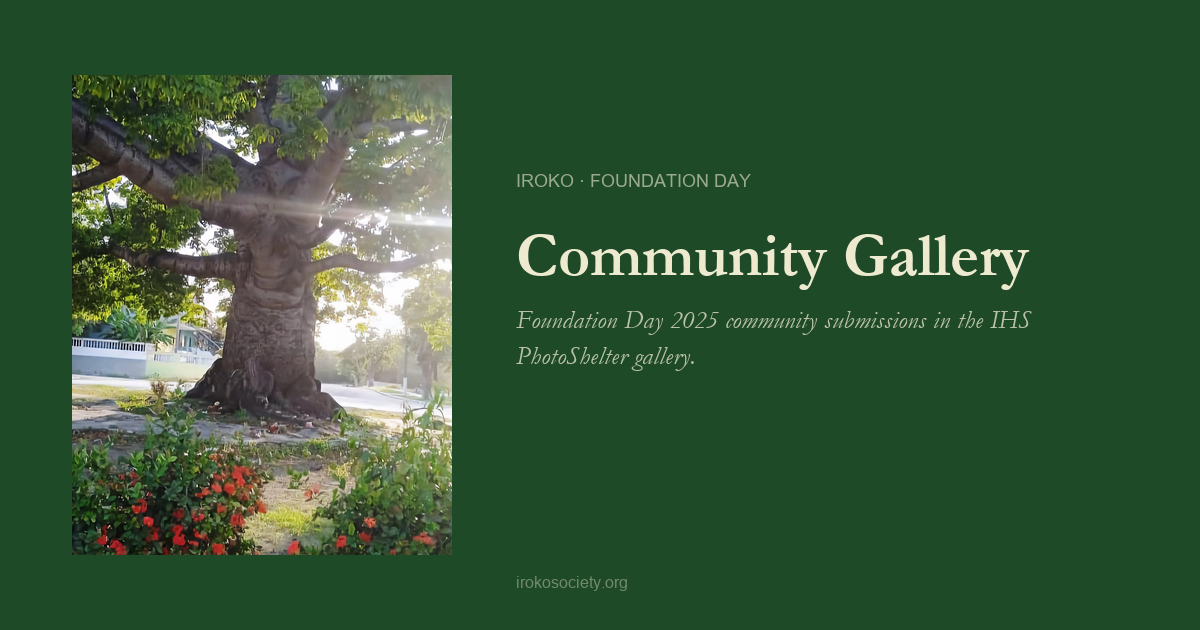
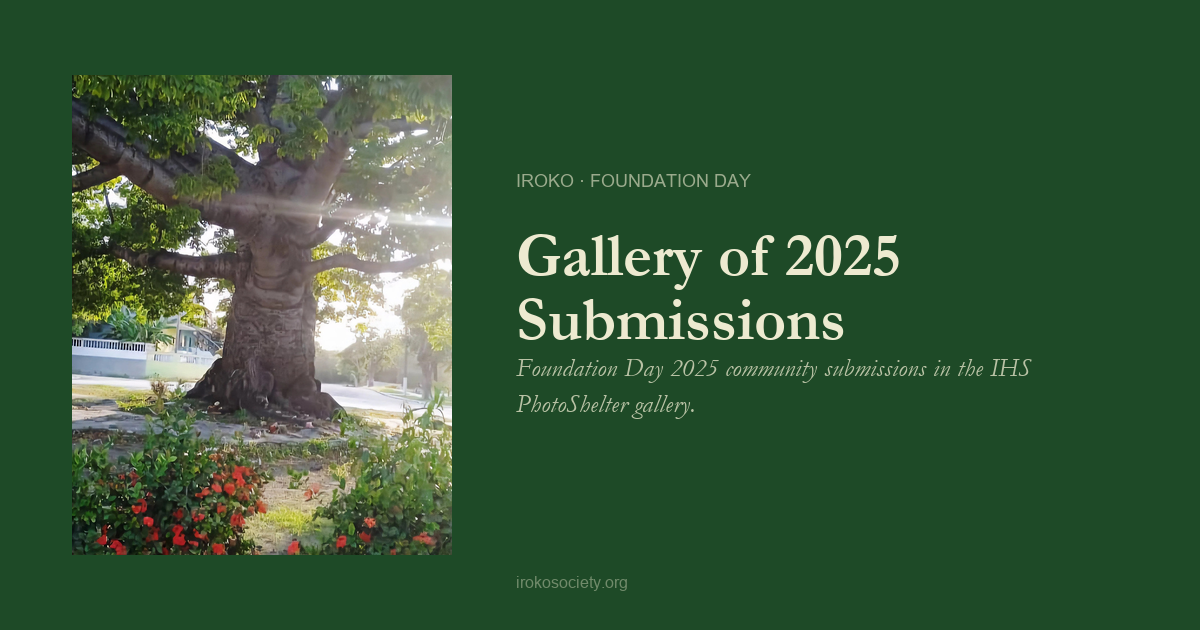
Gallery Updates

Changed region(s): [[0.4317, 0.3619, 0.8633, 0.6032], [0.4317, 0.6333, 0.5858, 0.6635], [0.8017, 0.4825, 0.8633, 0.5127]]

diff --git a/foundation-day/community-gallery-2025.html b/foundation-day/community-gallery-2025.html
@@ -21,26 +21,110 @@
   <link rel="stylesheet" href="../style.css">
   <link rel="icon" type="image/svg+xml" href="../assets/IHS-Logo.svg">
   <style>
-    body{min-height:100vh;margin:0;background:var(--cream);color:var(--text-main)}
-    .redirect-page{min-height:100vh;display:grid;place-items:center;padding:2rem;background:linear-gradient(180deg,var(--cream) 0%,var(--cream-light) 100%)}
-    .redirect-message{max-width:560px;text-align:center}
+    .top-bar{background:var(--green-deep);border-bottom:1px solid var(--green-border);color:rgba(237,234,208,.6);font-family:var(--font-sans);font-size:.7rem;letter-spacing:.1em;text-align:center;padding:.35rem 1rem}
+    nav ul{position:relative}
+    .nav-dropdown{position:relative}
+    .nav-dropdown>a::after{content:' \25BE';font-size:.6rem;opacity:.7}
+    .dropdown-menu{display:none;position:absolute;top:100%;left:0;background:var(--green-deep);border:1px solid var(--green-border);border-top:2px solid var(--green-light);min-width:200px;list-style:none;margin:0;padding:.4rem 0;z-index:200;box-shadow:0 6px 18px rgba(0,0,0,.35)}
+    .nav-dropdown:hover .dropdown-menu{display:block}
+    .dropdown-menu li a{display:block;padding:.5rem 1.1rem;font-family:var(--font-sans);font-size:.75rem;letter-spacing:.05em;text-transform:uppercase;color:rgba(237,234,208,.7);text-decoration:none;white-space:nowrap;transition:background .15s,color .15s;height:auto;line-height:1.4}
+    .dropdown-menu li a:hover,.dropdown-menu li a.active{background:rgba(255,255,255,.1);color:var(--cream)}
+    .nav-toggle{display:none;background:none;border:none;color:var(--cream);font-size:1.5rem;cursor:pointer;padding:.25rem .5rem;margin-left:auto}
+    a.ext::after{content:' \2197';font-size:.75em;opacity:.6}
+
+    .redirect-page{min-height:calc(100vh - 64px);display:grid;place-items:center;padding:4rem 2rem;background:linear-gradient(180deg,var(--cream) 0%,var(--cream-light) 100%)}
+    .redirect-message{max-width:620px;text-align:center}
     .redirect-eyebrow{font-family:var(--font-sans);font-size:.72rem;letter-spacing:.18em;text-transform:uppercase;color:var(--green-mid);margin-bottom:1rem}
-    .redirect-message h1{font-family:var(--font-display);font-size:clamp(1.8rem,5vw,2.8rem);font-weight:700;color:var(--green-deep);line-height:1.15;margin:0 0 1rem}
+    .redirect-message h1{font-family:var(--font-display);font-size:clamp(1.85rem,5vw,2.9rem);font-weight:700;color:var(--green-deep);line-height:1.15;margin:0 0 1rem}
     .redirect-message p{font-family:var(--font-sans);font-size:.95rem;line-height:1.8;color:var(--text-muted);margin:0 auto 1rem}
     .countdown{font-family:var(--font-display);font-size:clamp(2.2rem,10vw,4rem);font-weight:700;color:var(--green-deep);line-height:1;margin:1.4rem 0 .45rem}
     .countdown-label{font-family:var(--font-sans);font-size:.72rem;letter-spacing:.14em;text-transform:uppercase;color:var(--text-muted)}
     .noscript-note{max-width:560px;margin:1.5rem auto 0;font-family:var(--font-sans);font-size:.86rem;line-height:1.7;color:var(--text-muted)}
     .noscript-note a{color:var(--green-deep)}
+
+    .site-footer{background:var(--green-deep);color:rgba(237,234,208,.7);padding:2rem 1.5rem;border-top:3px solid var(--green-border)}
+    .footer-links{display:flex;flex-wrap:wrap;gap:.5rem 1.5rem;justify-content:center;margin-bottom:1.25rem}
+    .footer-links a{font-family:var(--font-sans);font-size:.72rem;letter-spacing:.07em;text-transform:uppercase;color:rgba(237,234,208,.55);text-decoration:none}
+    .footer-links a:hover{color:var(--cream)}
+    .footer-legal{text-align:center;font-family:var(--font-sans);font-size:.72rem;color:rgba(237,234,208,.4);line-height:1.8}
+    .footer-legal a{color:rgba(237,234,208,.5)}
+    .footer-legal a:hover{color:var(--cream)}
+
+    @media(max-width:768px){
+      .nav-toggle{display:block}
+      nav ul{display:none;position:absolute;top:64px;left:0;right:0;background:var(--green-deep);border-top:1px solid var(--green-border);flex-direction:column;padding:.5rem 0;z-index:199}
+      nav ul.open{display:flex}
+      nav ul li a{padding:.65rem 1.5rem;width:100%;display:block}
+      .dropdown-menu{position:static;box-shadow:none;border:none;border-left:3px solid var(--green-light);background:rgba(0,0,0,.15);margin-left:1rem}
+      .nav-dropdown:hover .dropdown-menu{display:none}
+      .nav-dropdown.open .dropdown-menu{display:block}
+    }
   </style>
+  <meta name="google-site-verification" content="semOYyyXCxaqoE-n8S1iUVAGx-oHwlPyGKNok2WGGqA" />
+  <script async src="https://www.googletagmanager.com/gtag/js?id=G-SZP3KZWLS4"></script>
+  <script>
+    window.dataLayer = window.dataLayer || [];
+    function gtag(){dataLayer.push(arguments);}
+    gtag('js', new Date());
+    gtag('config', 'G-SZP3KZWLS4');
+  </script>
 </head>
 <body>
+  <div class="top-bar">Iroko Historical Society &middot; Postcustodial Digital Archives for Afro-Atlantic Cultural Materials</div>
+
+  <nav>
+    <a href="../index.html" class="brand">
+      <img src="../assets/IHS-Logo.jpg" alt="IHS Logo">
+      <span>Iroko Historical Society</span>
+    </a>
+    <button class="nav-toggle" aria-label="Toggle navigation" aria-expanded="false">&#9776;</button>
+    <ul class="nav-links">
+      <li><a href="../index.html">Home</a></li>
+      <li class="nav-dropdown">
+        <a href="../about.html">The Society</a>
+        <ul class="dropdown-menu">
+          <li><a href="../about.html">Our Vision</a></li>
+          <li><a href="../founder.html">The Founder</a></li>
+          <li><a href="../our-stance.html">Our Stance</a></li>
+          <li><a href="../contact.html">Contact</a></li>
+        </ul>
+      </li>
+      <li class="nav-dropdown">
+        <a href="../collections.html">The Collections</a>
+        <ul class="dropdown-menu">
+          <li><a href="../collections.html">Our Holdings</a></li>
+          <li><a href="../access-policy.html">Access &amp; Use Policy</a></li>
+          <li><a href="../mission.html">Mission &amp; Stewardship</a></li>
+          <li><a href="https://medjat.irokosociety.org/" class="ext">Per Medjat</a></li>
+          <li><a href="https://ontology.irokosociety.org/" class="ext">Iroko Framework</a></li>
+        </ul>
+      </li>
+      <li class="nav-dropdown">
+        <a href="../research.html">Research</a>
+        <ul class="dropdown-menu">
+          <li><a href="../research.html#peer-reviewed">Publications</a></li>
+          <li><a href="../research.html#working-papers">Working Papers</a></li>
+          <li><a href="../research.html#presentations">Presentations</a></li>
+        </ul>
+      </li>
+      <li class="nav-dropdown">
+        <a href="../iroko-spirituality.html">Iroko</a>
+        <ul class="dropdown-menu">
+          <li><a href="../iroko-spirituality.html">Iroko Spirituality</a></li>
+          <li><a href="../visual-ethnography.html">Visual Ethnography</a></li>
+          <li><a href="../iroko-commentaries.html">Commentary</a></li>
+        </ul>
+      </li>
+      <li><a href="2026.html" class="active" aria-current="page">Foundation Day</a></li>
+    </ul>
+  </nav>
+
   <main class="redirect-page" aria-labelledby="gallery-title">
     <section class="redirect-message">
-      <p class="redirect-eyebrow">Iroko Historical Society</p>
-      <h1 id="gallery-title">Foundation Day 2025 Community Gallery</h1>
+      <p class="redirect-eyebrow">Foundation Day &middot; 2025 Community Submissions</p>
+      <h1 id="gallery-title">Community Gallery</h1>
       <p>
-        You are being sent to the IHS PhotoShelter gallery for the 2025 community
-        submissions.
+        You are being sent to the IHS PhotoShelter gallery for the 2025 community submissions.
       </p>
       <div class="countdown" id="countdown" aria-live="polite">8</div>
       <div class="countdown-label">seconds</div>
@@ -53,6 +137,31 @@
     </section>
   </main>
 
+  <footer class="site-footer">
+    <div class="footer-links">
+      <a href="../index.html">Home</a>
+      <a href="../collections.html">Collections</a>
+      <a href="../access-policy.html">Access Policy</a>
+      <a href="https://ontology.irokosociety.org/" class="ext">Iroko Framework</a>
+      <a href="../contact.html">Contact</a>
+    </div>
+    <div class="footer-legal">
+      Iroko Historical Society<br>
+      An elaboration of Il&eacute; A&ntilde;&aacute; Olof&iacute;, Inc., a registered 501(c)(3)<br>
+      Foundation Day is observed annually on July 14. &nbsp;&middot;&nbsp;
+      <a href="#" class="js-email">[protected]</a>
+    </div>
+  </footer>
+
+  <script>
+  (function(){
+    var u='senior.curator',d='irokosociety.org';
+    document.querySelectorAll('.js-email').forEach(function(el){
+      el.href='mailto:'+u+'@'+d;
+      el.textContent=u+'@'+d;
+    });
+  })();
+  </script>
   <script>
   (function(){
     var galleryUrl = 'https://irokosociety.photoshelter.com/gallery/G0000emYJ_7Ralo8';
@@ -75,5 +184,6 @@
     }, 1000);
   })();
   </script>
+  <script src="../assets/nav.js"></script>
 </body>
 </html>

diff --git a/generate-og.py b/generate-og.py
@@ -686,7 +686,7 @@ PAGES = [
         photo_url  = "https://m.psecn.photoshelter.com/img-get/I0000BOUspDyBJo4/s/1200/I0000BOUspDyBJo4.jpg",
         label      = "IROKO · FOUNDATION DAY",
         title      = "Share Your Tree",
-        subtitle   = "A community observance for July 14 — find a tree of significance, stand with it, and share what you witnessed.",
+        subtitle   = "A community observance for July 14 - find a tree of significance, stand with it, and share what you witnessed.",
         og_title   = "Share Your Tree — Iroko Historical Society",
         og_locale  = "en_US",
         og_locale_alternates = ["es_ES", "pt_BR", "ht_HT"],
@@ -702,7 +702,7 @@ PAGES = [
         layout     = "photo",
         photo_url  = "https://m.psecn.photoshelter.com/img-get/I0000BOUspDyBJo4/s/1200/I0000BOUspDyBJo4.jpg",
         label      = "IROKO · FOUNDATION DAY",
-        title      = "Community Gallery",
+        title      = "Gallery of 2025 Submissions",
         subtitle   = "Foundation Day 2025 community submissions in the IHS PhotoShelter gallery.",
         og_title   = "Foundation Day 2025 Community Gallery — Iroko Historical Society",
         og_description = (